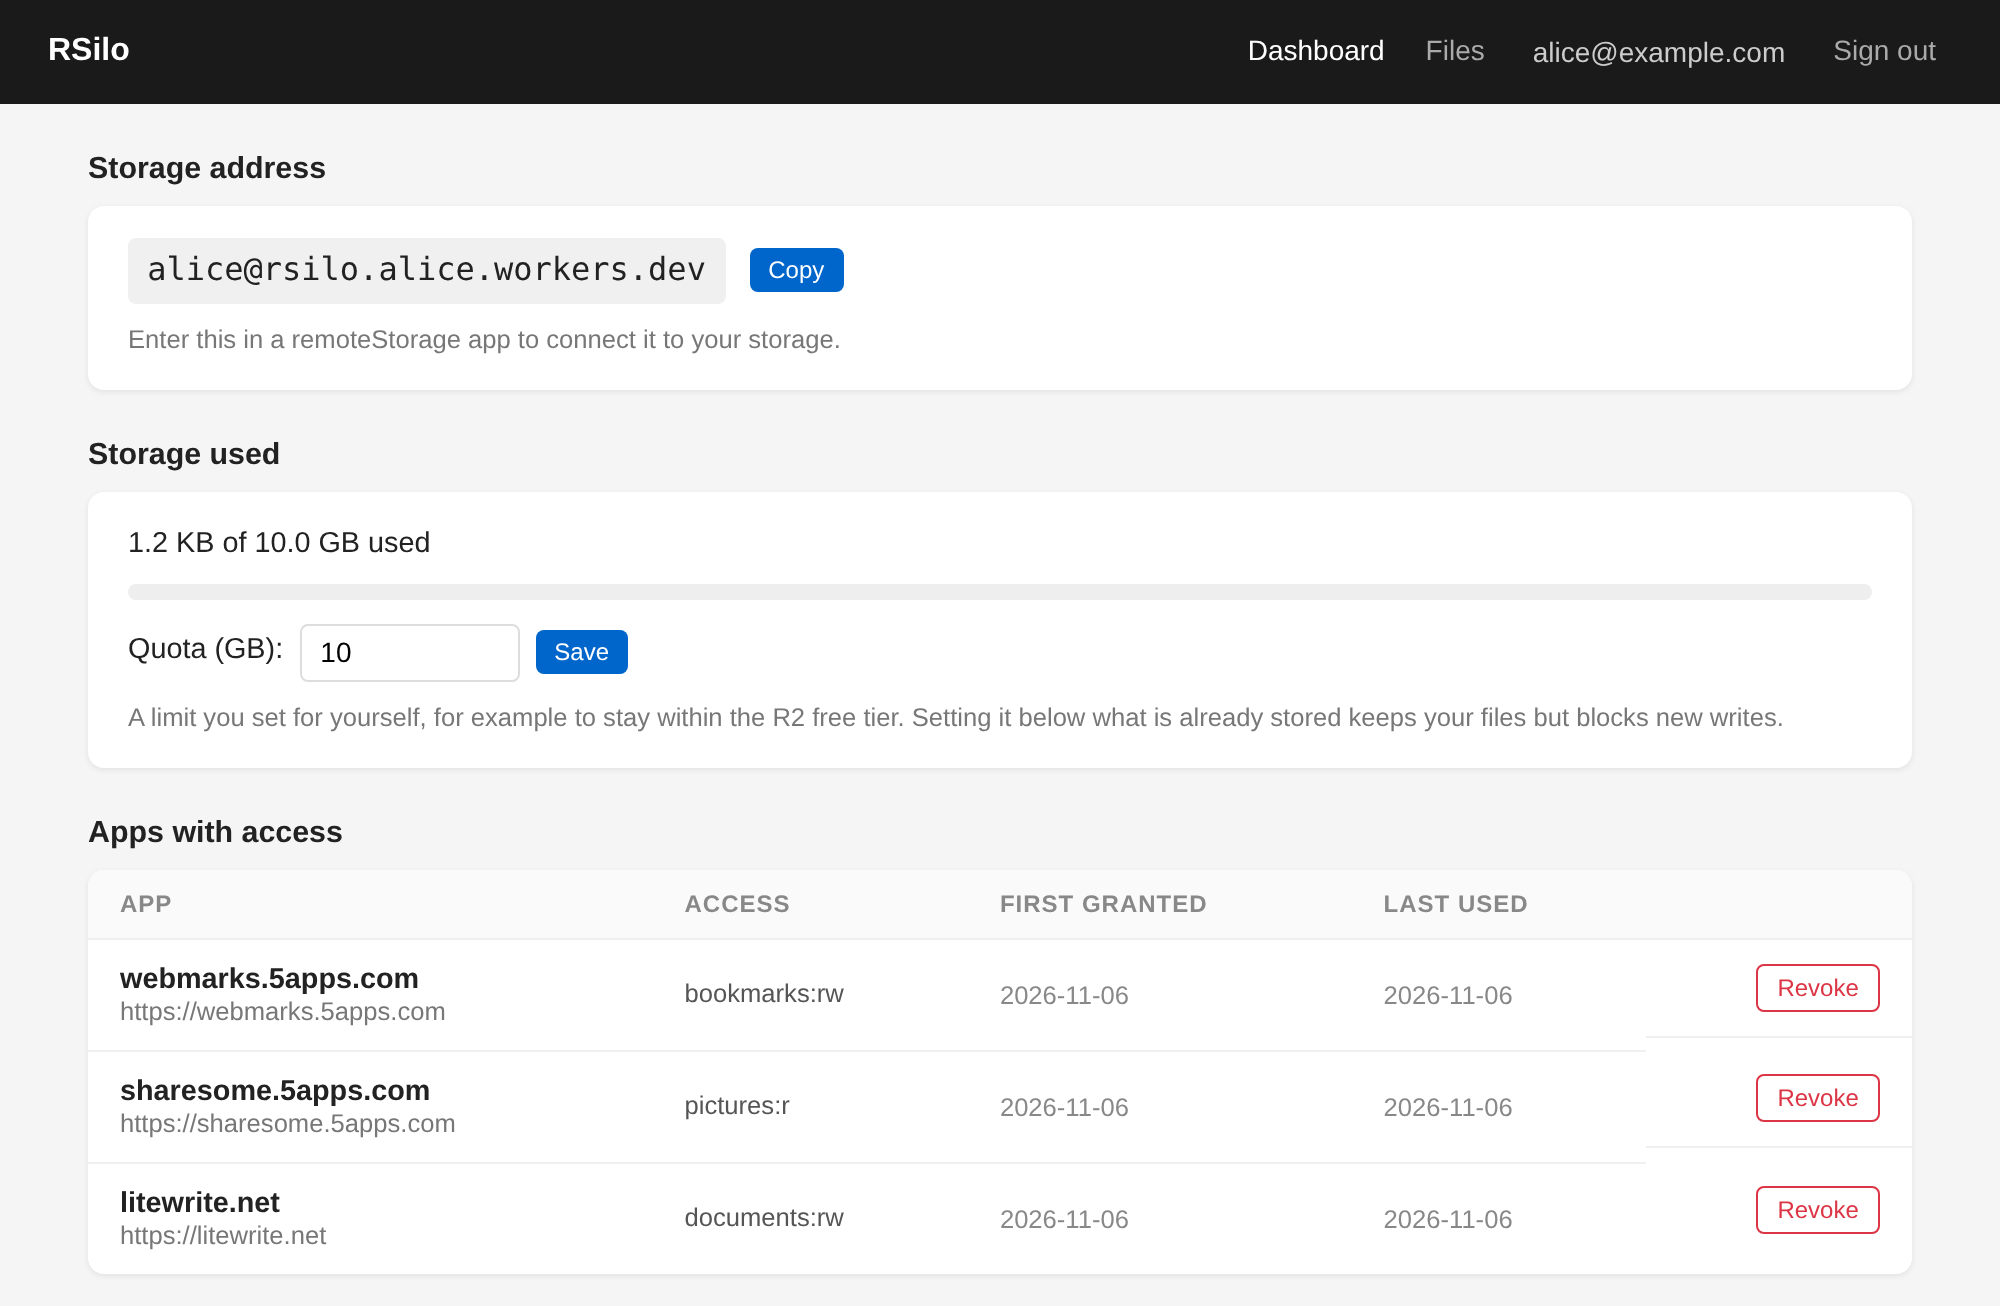
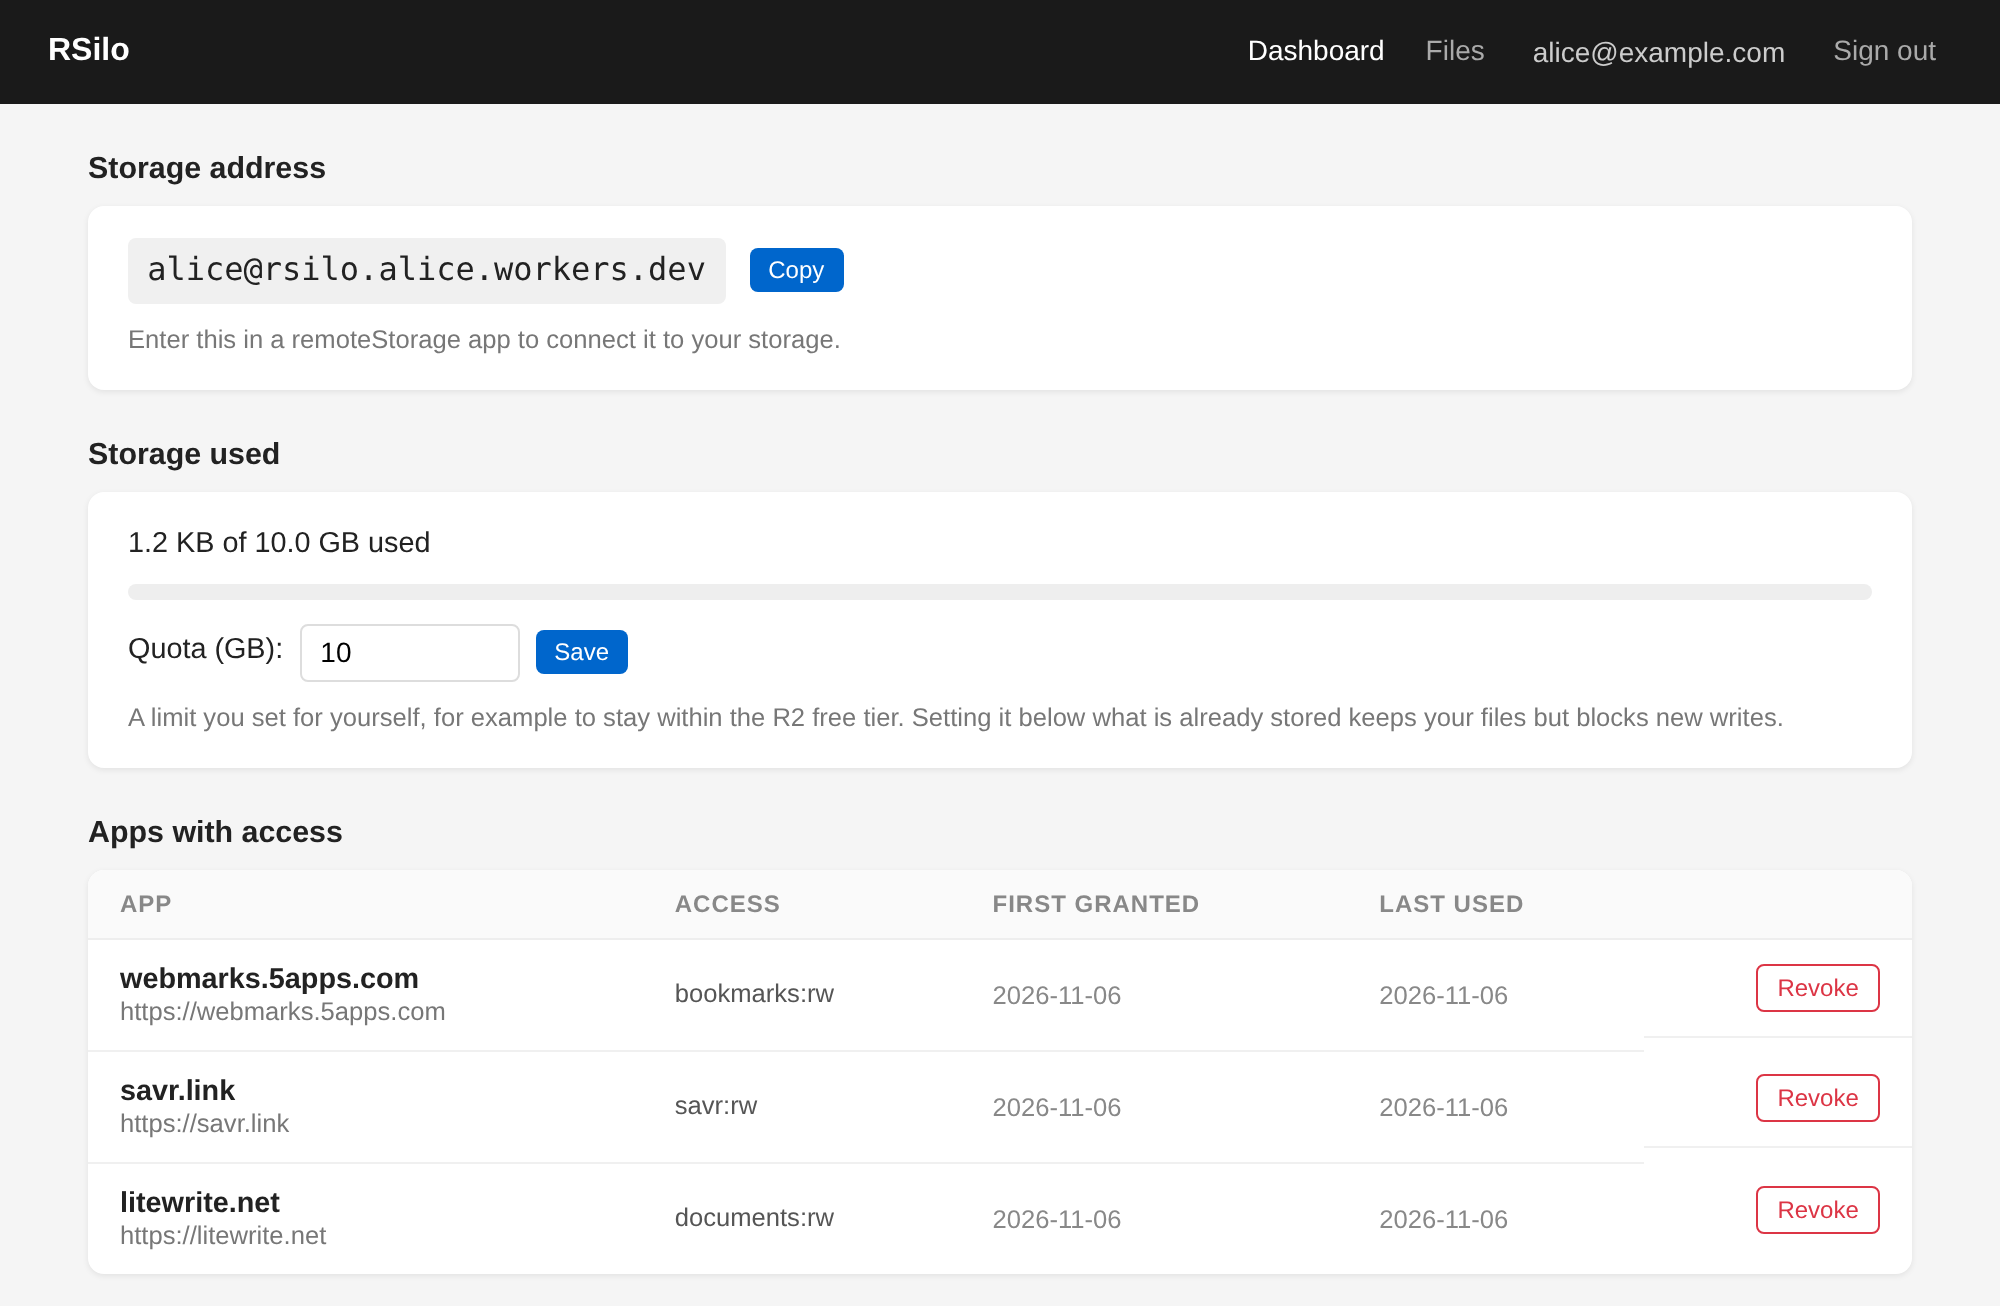
docs: drop the consent screenshot; show savr.link among connected apps
savr.link connects with savr:rw, the scope it claims in its own bundle.

diff --git a/src/scripts/screenshots.ts b/src/scripts/screenshots.ts
@@ -6,8 +6,8 @@ import { chromium, type Page } from 'playwright-core';
 
 // Regenerates the README screenshots in docs/images/. Starts a throwaway
 // offline server on a temp directory, seeds sample files, connects three apps
-// through the real consent page, then captures the dashboard, file manager and
-// consent page. Uses the Chromium from `bunx playwright install chromium`, or
+// through the real consent page, then captures the dashboard and the file
+// manager. Uses the Chromium from `bunx playwright install chromium`, or
 // CHROME_PATH where that one will not launch (see docs/development.md).
 
 const PORT = 8797;
@@ -51,10 +51,6 @@ try {
   const files = await page.locator('table').first().locator('xpath=ancestor::*[contains(@class,"card")][1]').boundingBox();
   await shotTo(page, 'files.png', files!.y + files!.height + 32);
 
-  await page.goto(`${BASE}/account/oauth/authorize?${consentQuery('https://litewrite.net', 'documents:rw')}`);
-  const allow = await page.locator('button[value="approve"]').boundingBox();
-  await page.screenshot({ path: `${OUT}/consent.png`, clip: { x: 250, y: 40, width: 500, height: allow!.y + allow!.height + 20 } });
-
   await browser.close();
   console.log(`Screenshots written to ${OUT}/`);
 } finally {
@@ -83,7 +79,7 @@ async function connectApps(page: Page): Promise<void> {
   const apps = [
     ['https://litewrite.net', 'documents:rw'],
     ['https://webmarks.5apps.com', 'bookmarks:rw'],
-    ['https://sharesome.5apps.com', 'pictures:r'],
+    ['https://savr.link', 'savr:rw'],
   ];
   for (const [origin, scope] of apps) {
     await page.goto(`${BASE}/account/oauth/authorize?${consentQuery(origin, scope)}`);

diff --git a/docs/development.md b/docs/development.md
@@ -77,7 +77,7 @@ The README's screenshots live in `docs/images/`. After a UI change, regenerate t
 bun run docs:screenshots
 ```
 
-It starts a throwaway offline server on port 8797 with a temporary database, seeds sample files, connects three apps through the real consent page, captures the dashboard, the file manager and the consent page, then deletes the temporary data. It drives Chromium through `playwright-core`, which uses a browser installed with `bunx playwright install chromium`. Where that browser will not launch (NixOS, for example), point `CHROME_PATH` at another Chromium build:
+It starts a throwaway offline server on port 8797 with a temporary database, seeds sample files, connects three apps through the real consent page, captures the dashboard and the file manager, then deletes the temporary data. It drives Chromium through `playwright-core`, which uses a browser installed with `bunx playwright install chromium`. Where that browser will not launch (NixOS, for example), point `CHROME_PATH` at another Chromium build:
 
 ```bash
 CHROME_PATH=$(ls -d /nix/store/*-playwright-chromium/*/chrome | head -1) bun run docs:screenshots

diff --git a/README.md b/README.md
@@ -24,10 +24,7 @@ RemoteStorage is an open protocol for syncing app data across devices. A server 
 - **Public sharing** through the `public` module
 - Everything fits inside Cloudflare's **free tier** (see [Running on the Cloudflare free tier](docs/self-hosting.md#running-on-the-cloudflare-free-tier))
 
-<p>
-  <img src="docs/images/files.png" alt="The file manager: browse folders, then view, download, delete or upload files" width="68%">
-  <img src="docs/images/consent.png" alt="The consent page: an app asks for read and write access to the documents module, and you allow or deny it" width="30%">
-</p>
+![The file manager: browse folders, then view, download, delete or upload files](docs/images/files.png)
 
 ## Where to start
 
